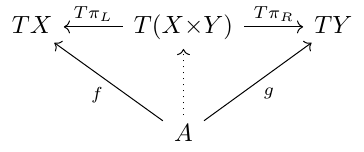
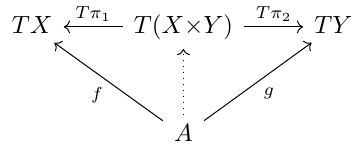
adjusted notation of projections, and smoothended passage to formal definition of Markov cats

Changed region(s): [[0.6951, 0.0263, 0.8159, 0.1579], [0.1813, 0.0263, 0.3022, 0.1579]]

diff --git a/blogpost/blogpost.md b/blogpost/blogpost.md
@@ -12,7 +12,7 @@ In this blog post, we'll work with examples of both traditional finite probabili
 
 ----------------------------------------------------------
 
-## Basics of Probability Theory (UTKU)
+## Basics of Probability Theory
 
 ### Probability distributions
 We want to proceed with our discussion through an example, and so before we introduce everything, consider the following:
@@ -139,7 +139,7 @@ If you are familiar with Kleisli categories, you might have uncovered $\mathbf{M
 If you do *not* know Kleisli categories--don't worry, we'll try to explain it on the go, focusing on the relevant properties for our purpose. The idea is the following:
 
  1. take a cartesian monoidal category $\mathbf{D}$, representing *deterministic processes* and
- 2. introduce *non-deterministic processes* as a [monadic effect](https://ncatlab.org/nlab/show/monad+%28in+computer+science%29#BasicIdea) by a probability monad $T : \mathbf{D} \to \mathbf{D}$
+ 2. introduce *non-deterministic processes* as a [monadic effect](https://ncatlab.org/nlab/show/monad+%28in+computer+science%29#BasicIdea) by a probability monad $T : \mathbf{D} \to \mathbf{D}$:
 The [Kleisli category](https://en.wikipedia.org/wiki/Kleisli_category) $\mathbf{D}_T$ of $T$ has the same objects as $\mathbf{D}$, and morphisms $$\mathbf{D_T}(X,Y) := \mathbf{D}(X, TY) .$$ We call them *Kleisli maps*.
 
 > For an example, recall the power set monad $P: \mathbf{Set} \to \mathbf{Set}$ from above.
@@ -147,7 +147,8 @@ The [Kleisli category](https://en.wikipedia.org/wiki/Kleisli_category) $\mathbf{
 
 While the latter example captures *possibility*, the following is the most general framework for *probability*:
 
-> The Giry monad $G : \mathbf{Meas} \to \mathbf{Meas}$ on the (cartesian monoida) category of measurable spaces, sending a measurable space $X$ to the space $P X$ of distributions on it (a.k.a probability  measures). Its Kleisli morphisms are known as Markov kernels (hence the name Markov categories!): measurable functions $f: X \to P Y$, meaning that each point $x \in X$ is assigned a distribution $f_x$ on $Y$: normal distributions, uniform distribution,  [delta distribution (a.k.a Dirac measure)](https://ncatlab.org/nlab/show/Dirac+measure), ... Regard it as a stochastic process with input $X$ and probabilistic output $Y$. If the weather is sunny tomorrow, will the sprinkler switch on? Well, probably... In contrast, morphisms $X \to Y$ in $\mathbf{Meas}$ (i.e. measurable functions) are *deterministic*, as their output are points $f(x) \in Y$ being definitely determined by their input $x \in X$.
+> The Giry monad $G : \mathbf{Meas} \to \mathbf{Meas}$ on the (cartesian monoida) category of measurable spaces sends a measurable space $X$ to the space $P X$ of distributions on it (a.k.a probability  measures). Its Kleisli morphisms are known as *Markov kernels*. (Hence the name Markov categories!) By definition, these are measurable functions $f: X \to P Y$, meaning that each point $x \in X$ is assigned a distribution $f_x$ on $Y$: normal distributions, uniform distribution,  [delta distribution (a.k.a Dirac measure)](https://ncatlab.org/nlab/show/Dirac+measure), ... Regard it as a stochastic process with input $X$ and probabilistic output $Y$. If the weather is sunny tomorrow, will the sprinkler switch on? Well, probably... 
+> In contrast, morphisms $X \to Y$ in $\mathbf{Meas}$ (i.e. measurable functions) are *deterministic*, as their output are points $f(x) \in Y$ being definitely determined by their input $x \in X$.
 
 <!---
 > Note two special cases:
@@ -157,20 +158,20 @@ While the latter example captures *possibility*, the following is the most gener
 More generally, it is known as the Kleisli functor $\mathrm{D} \to \mathrm{D}_T$, interpreting deterministic processes as probabilistic processes.
 --->
 
-A general definition of *determinism* in Markov categories follows below. Before, let's investigate the term *process*, by which we mean morphisms in a monoidal category: the usual composition amounts to the concatenation of processes, while the tensor product merges two subsystems into one, by running them "in parallel".
+A general definition of *determinism* in Markov categories follows below. Before, let's investigate the term *process*, by which we mean morphisms in a monoidal category: the usual composition amounts to the concatenation of processes, while the tensor product merges two subsystems into one, by running them “in parallel”.
 
-For our category $\mathbf{D}$ of "deterministic processes", this is straight forward; being *cartesian monoidal* means 
+For our category $\mathbf{D}$ of “deterministic processes”, this is straight forward; being *cartesian monoidal* means 
 
 1. it has a terminal object $I$. <!-- Equivalently,  there are unique *deleting morphisms*  $del_X : X \to I$ being natural in $X$. -->
-2. it has products $X \times Y$ and projection pairs $X \xleftarrow{\mathrm{out}^L} X \times Y \xrightarrow{\mathrm{out}^R} Y$ satisfying the universal property of the product: <img src="https://raw.githubusercontent.com/appliedcategorytheory/appliedcategorytheory.github.io/master/images/2024-blog-posts/1B/tikz-cd_universal_property_product.png" alt="Diagram of universal property of the product."/>
-3. it has a symmetric monoidal structure is induced by 1. and 2.
+2. it has products $X \times Y$ and projection pairs $X \xleftarrow{\mathrm{out}_1} X \times Y \xrightarrow{\mathrm{out}_2} Y$ satisfying the universal property of the product: <img src="https://raw.githubusercontent.com/appliedcategorytheory/appliedcategorytheory.github.io/master/images/2024-blog-posts/1B/tikz-cd_universal_property_product.png" alt="Diagram of universal property of the product."/>
+3. it has a symmetric monoidal structure induced by 1. and 2.
 
-Things are more complicated for the Kleisli category $D_T$: to get a tensor product, we need the monad $T$ to be [strong](https://ncatlab.org/nlab/show/commutative+monad), i.e. it comes with well behaving[^2]  *zipper functions* in $\mathbf{D}$
-$$\nabla_{X,Y} : PX \times PY \to P(X \times Y).$$ 
+Things are more complicated for the Kleisli category $D_T$: to get a tensor product, we need the monad $T$ to be [strong](https://ncatlab.org/nlab/show/commutative+monad), i.e., it comes with well behaving[^2]  *zipper functions* in $\mathbf{D}$
+$$\nabla_{X,Y} : TX \times TY \to T(X \times Y).$$ 
 
-[^2]:  to be precise, we require  $\nabla_{X,Y}$ to make $P \iota : \mathbf{C}_{det} \to \mathbf{C}_{det}$ a symmetric monoidal functor, such that multiplication and unit of the monad are monoidal natural transformations. 
+[^2]:  to be precise, we require  $\nabla_{X,Y}$ to make $T \iota : \mathbf{C}_{det} \to \mathbf{C}_{det}$ a symmetric monoidal functor, such that multiplication and unit of the monad are monoidal natural transformations. 
 
-Kleisli maps $f \in \mathbf{D}(A, TX)$ and $g \in \mathbf{D}(B, TY)$ may then be tensored as $$f \otimes g : A \times B \xrightarrow{f \times g} PX \times PY \xrightarrow{\nabla_{X,Y}} P(X \times Y).$$
+Kleisli maps $f \in \mathbf{D}(A, TX)$ and $g \in \mathbf{D}(B, TY)$ may then be tensored as $$f \otimes g : A \times B \xrightarrow{f \times g} TX \times TY \xrightarrow{\nabla_{X,Y}} T(X \times Y).$$
 
 > For the normalized power set-monad $P : \mathbf{Set} \to \mathbf{Set}$, the zipper maps two subsets $A \subseteq X$ and $B \subseteq Y$ to $\nabla_{X, Y} (A, B) := A \times B \subseteq X \times Y$. Kleisli maps $f: A \to PX$ and $g: B \to PY$ hence have the tensor product $$f \otimes g: (a, b) \mapsto f(a) \times g(b) \subseteq X \times Y .$$
 
@@ -179,32 +180,35 @@ Kleisli maps $f \in \mathbf{D}(A, TX)$ and $g \in \mathbf{D}(B, TY)$ may then be
 
 In categorical terms, the induced symmetric monoidal structure on the Kleisli category $\mathbf{D}_T$ is such that the [Kleisli functor](https://en.wikipedia.org/wiki/Kleisli_category#Kleisli_adjunction) $Kl_T : \mathbf{D} \to \mathbf{D}_T$ is strict symmetric monoidal.
 
-But we want more:[^10] we want the Kleisli functor to preserve the projection pairs $\mathrm{out}^{L/R}$, in that the following diagrams (in $\mathbf{D}_T$!) commute for $\mathrm{del}^{L/R} := Kl_T (\mathrm{out}^{L/R})$: <img src="https://raw.githubusercontent.com/appliedcategorytheory/appliedcategorytheory.github.io/master/images/2024-blog-posts/1B/tikz-cd_projections_asKleisliMaps.png" alt="Rectangle with projections."/>
+But we want more:[^10] we want the Kleisli functor to preserve the projection pairs $\mathrm{out}_{i}$, in that the following diagrams (in $\mathbf{D}_T$!) commute for $\mathrm{del}_{i} := Kl_T (\mathrm{out}_{i})$: <img src="https://raw.githubusercontent.com/appliedcategorytheory/appliedcategorytheory.github.io/master/images/2024-blog-posts/1B/tikz-cd_projections_asKleisliMaps.png" alt="Rectangle with projections."/>
 
 [^10]: So far, the Kleisli category is only a CD-category, but not a Markov category.
 
 There are multiple equivalent requirements:
 
- - $\mathrm{del}^L$ and $\mathrm{del}^R$ are natural transformations;
+ - $\mathrm{del}_1$ and $\mathrm{del}_2$ are natural transformations;
  - $T$ preserves the terminal object $I \cong TI$ (in $\mathbf{D}$);
- - $I$ is a terminal object in $\mathbf{D}_T$, which is thus *semicartesian*.
+ - $I$ is a terminal object in $\mathbf{D}_T$, which is thus [*semicartesian*](https://golem.ph.utexas.edu/category/2016/08/monoidal_categories_with_proje.html).
 
-As a consequence, $\mathbf{D}_T$ has *weak products*: any pair of Kleisli maps $f: A \to X$, $g: A \to Y$ factorizes jointly over $X \otimes Y$: 
+As a consequence, $\mathbf{D}_T$ has *weak products*: any pair of Kleisli maps $f: A \to X$, $g: A \to Y$ factorizes as:
 
 <img src="https://raw.githubusercontent.com/appliedcategorytheory/appliedcategorytheory.github.io/master/images/2024-blog-posts/1B/tikz-cd_property_weak_product_asKleisliMaps.png" alt="Diagram with weak products."/>
 
-with the copy process of $A$ $$\mathrm{copy}_A := Kl_T (\langle \mathrm{id}_A, \mathrm{id}_A \rangle) \in \mathbf{D}_T (A, A \otimes A).$$ 
+with the *copy process* of $A$ $$\mathrm{copy}_A := Kl_T (\langle \mathrm{id}_A, \mathrm{id}_A \rangle) \in \mathbf{D}_T (A, A \otimes A).$$ (The lower triangles commute, as $Kl$ is a functor and $\mathrm{out}_i \circ \langle \mathrm{id}_A, \mathrm{id}_A \rangle = \mathrm{id}_A$.)
 
-However, the vertical Kleisli map $A \to X \otimes Y$ in the last diagram is *not unique*--hence the term *semi*cartesian--, as the following example shows.
+However, the vertical Kleisli map $A \to X \otimes Y$ in that diagram is *not unique*--hence the term *semi*cartesian--as the following example shows.
 
 > In the Kleisli category of the Giry-monad, consider the uniform distributions on $X = \{\text{sunny}, \text{cloudy}, \text{rainy}\}$ and $Y = \{\text{on}, \text{off}\}$, i.e. Markov kernels $$f : \{\ast\} \to X, \quad \ast \mapsto \frac{1}{3} |\text{sunny} \rangle + \frac{1}{3} |\text{cloudy} \rangle + \frac{1}{3} |\text{rainy} \rangle$$$$g : \{\ast\} \to Y, \quad \ast \mapsto \frac{1}{2} |\text{on} \rangle + \frac{1}{2} |\text{off} \rangle.$$ Then the weak-product-diagram from above commutes for both of the following distributions on $X {\times} Y$: $$\ast \mapsto \frac{1}{6} | \text{sunny, on} \rangle + \frac{1}{6} | \text{sunny, off} \rangle + \frac{1}{6} | \text{cloudy, on} \rangle + \frac{1}{6} | \text{cloudy, off} \rangle + \frac{1}{6} | \text{rainy, on} \rangle + \frac{1}{6} | \text{rainy, off} \rangle$$$$\ast \mapsto \frac{1}{3} | \text{sunny, on} \rangle + \frac{1}{3} | \text{cloudy, off} \rangle + \frac{1}{6} | \text{rainy, on} \rangle + \frac{1}{6} | \text{rainy, off} \rangle.$$ Which one is obtained as above via $\{\ast\} \xrightarrow{\mathrm{copy}} \{\ast\} \otimes \{\ast\} \xrightarrow{f \otimes g} X \otimes Y$?[^13]
 
-[^13]: --it's the first one, i.e. the uniform distribution on $X \times Y$
+[^13]: --it's the first one, i.e., the uniform distribution on $X \times Y$
 
-In probability theory, this ambiguity is known as the fact that kernels to product spaces $h : A \to X \otimes Y$ are not determined by their marginalization $\mathrm{del}^L \circ h: A \to X$ and $\mathrm{del}^R \circ h: A \to Y$. From a more category theoretic perspective, it means that the family of copy morphisms is not natural.
+In probability theory, this ambiguity is known as the fact that Markov kernels $h : A \to X \otimes Y$ are not determined by their marginalization $\mathrm{del}_1 \circ h: A \to X$ and $\mathrm{del}_2 \circ h: A \to Y$. From a more category theoretic perspective, it means that the family of copy morphisms is not natural.
 
-Take a last look back on the weak-product diagram from above. The two triangles at the bottom mean that each $(A, \mathrm{copy}_A, \mathrm{del}_A)$ is a commutative comonoid in $\mathbf{D}_T$.
-This leads us to the formal definition of Markov categories.
+At first glance, it may not seem very convenient to consider something *non*-natural--but we want this, in order to capture uncertainty. We will give the details below (in subsection “Determinism”) and return to the big picture from above: a probability monad $T$ on a cartesian monoidal category $\mathbf{D}$ induces probabilistic/non-deterministic morphisms, which destroy the uniqueness constraint of the product and leaves us with weak products in $\mathbf{D}_T$.
+
+In the corresponding diagram of weak products, we have already seen that the two rectangles on top <img src="https://raw.githubusercontent.com/appliedcategorytheory/appliedcategorytheory.github.io/master/images/2024-blog-posts/1B/tikz-cd_projections_asKleisliMaps.png" alt="Rectangles with projections"/> depict naturality of the deletion maps. 
+
+Have you noticed that the triangles at the bottom <img src="https://raw.githubusercontent.com/appliedcategorytheory/appliedcategorytheory.github.io/master/images/2024-blog-posts/1B/tikz-cd_unitality.png" alt="Triangles with projections"/> look like a counitality constraint? In fact, each $(A, \mathrm{copy}_A, \mathrm{del}_A)$ is a commutative comonoid object in $\mathbf{D}_T$. This is the starting point for the general definition of Markov categories.
 
 <!--
 - in detail: 
@@ -212,7 +216,7 @@ This leads us to the formal definition of Markov categories.
 	- $\mathbf{C}(X,Y) \cong \mathbf{C}_{det}(X, PY) .$
 		- examples: $P$, $G$
 	- $D$ subcategory, cartesian -> deterministic processes
-	- transfer to $C$: "zipper" (making $T$ a symmetric monoidal functor)
+	- transfer to $C$: “zipper” (making $T$ a symmetric monoidal functor)
 		- examples: $P$, $G$
 		- $f \times g$
 	- symmetric monoidal structure being not cartesian
@@ -225,6 +229,8 @@ This leads us to the formal definition of Markov categories.
 	- $copy$ natural
 	- all Markov cats
 -->
+
+
 
 
 ## Markov Categories
